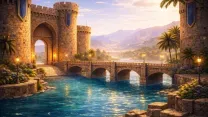
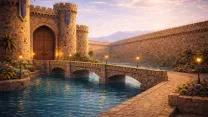
WIP - Gate ready

diff --git a/resources/js/support/alpine/data/quran-app-gate.js b/resources/js/support/alpine/data/quran-app-gate.js
@@ -57,27 +57,23 @@ document.addEventListener('alpine:init', () => {
                 return;
             }
 
-            let nextAngleDeg = targetAngleDeg;
-            const angleDelta = nextAngleDeg - this.orbitAngleDeg;
+            const wrappedDelta = ((targetAngleDeg - this.orbitAngleDeg + 540) % 360) - 180;
 
-            if (angleDelta > 180) {
-                nextAngleDeg -= 360;
-            } else if (angleDelta < -180) {
-                nextAngleDeg += 360;
-            }
-
-            this.orbitAngleDeg = nextAngleDeg;
+            this.orbitAngleDeg += wrappedDelta;
         },
         pinMode(mode) {
             this.pinnedMode = mode;
             this.isModePinned = true;
-            this.setOrbitAngle(
-                {
-                    tilawa: 0,
-                    hifth: 120,
-                    tadabbur: 240,
-                }[mode] ?? 0,
-            );
+
+            if (!this.isPointerInside) {
+                this.setOrbitAngle(
+                    {
+                        tilawa: 0,
+                        hifth: 120,
+                        tadabbur: 240,
+                    }[mode] ?? 0,
+                );
+            }
         },
         unpinMode(mode) {
             if (this.pinnedMode !== mode) {

diff --git a/resources/views/components/partials/quran-app/gate.blade.php b/resources/views/components/partials/quran-app/gate.blade.php
@@ -8,6 +8,7 @@
             --quran-gold-3: #d79f2f;
             --quran-gold-4: #8b6216;
             isolation: isolate;
+            background: #0b0805;
             user-select: none;
             -webkit-user-drag: none;
             -webkit-touch-callout: none;
@@ -31,11 +32,11 @@
         }
 
         .quran-app-sector--tadabbur {
-            clip-path: polygon(0 0, var(--gate-cx) var(--gate-cy), 50% 100%, 0 100%);
+            clip-path: polygon(0 0, var(--gate-cx) var(--gate-cy), calc(50% + 0.6px) 100%, 0 100%);
         }
 
         .quran-app-sector--hifth {
-            clip-path: polygon(100% 0, var(--gate-cx) var(--gate-cy), 50% 100%, 100% 100%);
+            clip-path: polygon(100% 0, var(--gate-cx) var(--gate-cy), calc(50% - 0.6px) 100%, 100% 100%);
         }
 
         .quran-app-sector__media {
@@ -83,7 +84,7 @@
         }
 
         img.quran-app-sector__image-img--tilawa {
-            object-position: 50% 50% !important;
+            object-position: 50% 62.5% !important;
         }
 
         img.quran-app-sector__image-img--hifth {
@@ -255,7 +256,7 @@
             inset: 0;
             border-radius: 999px;
             transform: rotate(0deg);
-            transition: transform 95ms ease-out, opacity 220ms ease;
+            transition: transform 300ms ease-out, opacity 220ms ease;
             pointer-events: none;
             z-index: 230;
         }
@@ -264,7 +265,7 @@
             position: absolute;
             left: 50%;
             top: 0;
-            width: 2.5rem;
+            width: 3.25rem;
             aspect-ratio: 1;
             border-radius: 999px;
             border: 1px solid rgba(253, 232, 171, 0.9);
@@ -368,6 +369,10 @@
                     0 0 0 3px color-mix(in srgb, var(--quran-gold-2) 16%, transparent),
                     0 0 9px color-mix(in srgb, var(--quran-gold-3) 26%, transparent);
             }
+
+            .quran-app-gate-orbit {
+                transition-duration: 440ms;
+            }
         }
     </style>
 @endassets
@@ -377,10 +382,10 @@
     x-cloak
     x-show="views['quran-app-gate'].isOpen"
     x-transition:enter="transition-all ease-out duration-750 delay-300"
-    x-transition:enter-start="opacity-0! translate-y-5 blur-[2px]"
-    x-transition:enter-end="opacity-100 translate-y-0 blur-0"
+    x-transition:enter-start="opacity-0! blur-[2px]"
+    x-transition:enter-end="opacity-100 blur-0"
     x-transition:leave="transition-all ease-in duration-350!"
-    x-transition:leave-start="opacity-100 translate-y-0 blur-0"
+    x-transition:leave-start="opacity-100 blur-0"
     x-transition:leave-end="opacity-0! blur-[2px]"
 >
     <section
@@ -397,7 +402,7 @@
         <button
             class="quran-app-sector quran-app-sector--tilawa"
             type="button"
-            aria-label="ترتيل القرآن"
+            aria-label="تلاوة القرآن"
             x-bind:class="{ 'is-active': isModeActive('tilawa') }"
             x-on:mouseenter="pinMode('tilawa')"
             x-on:mouseleave="unpinMode('tilawa')"
@@ -419,7 +424,7 @@
             </span>
 
             <span class="quran-app-sector__veil"></span>
-            <span class="quran-app-sector__chip quran-app-sector__chip--tilawa font-arabic-serif">ترتيل</span>
+            <span class="quran-app-sector__chip quran-app-sector__chip--tilawa font-arabic-serif">تلاوة</span>
         </button>
 
         <button
@@ -480,16 +485,6 @@
             <span class="quran-app-sector__chip quran-app-sector__chip--hifth font-arabic-serif">حفظ</span>
         </button>
 
-        <svg
-            class="quran-app-gate-geometry"
-            aria-hidden="true"
-            viewBox="0 0 100 100"
-            preserveAspectRatio="none"
-            fill="none"
-        >
-            <path d="M50 53 L50 100" />
-        </svg>
-
         <div
             class="quran-app-gate-anchor"
             aria-hidden="true"
@@ -497,8 +492,6 @@
         >
             <span
                 class="quran-app-gate-orbit"
-                x-cloak
-                x-show="isPointerInside || isModePinned"
                 x-bind:style="{ transform: `rotate(${orbitAngleDeg}deg)` }"
             >
                 <span class="quran-app-gate-puck"></span>

diff --git a/resources/views/components/partials/copyright-and-version.blade.php b/resources/views/components/partials/copyright-and-version.blade.php
@@ -6,7 +6,7 @@
     ]) }}"
     data-testid="copyright-version-shell"
     x-bind:class="{
-        'opacity-100!': views['main-menu'].isOpen || views['athkar-app-gate'].isOpen,
+        'opacity-100!': views['main-menu'].isOpen || views['athkar-app-gate'].isOpen || views['quran-app-gate'].isOpen,
     }"
     x-data="{
         isVisible: false,
@@ -157,9 +157,12 @@
     x-on:app-version-updated.window="setAppVersion($event.detail?.version)"
 >
     <div
-        class="relative w-fit max-w-[90vw] rounded-2xl border border-white/70 bg-gray-100/30 px-4 py-3 text-[clamp(0.6rem,2.65vw,0.8rem)] text-gray-600 opacity-0 ring-1 ring-gray-200/70 transition-opacity duration-500 ease-out sm:max-w-none sm:px-6 sm:py-4 sm:text-[1rem] dark:border-white/10 dark:bg-gray-900/20 dark:text-gray-300 dark:ring-white/10"
+        class="relative w-fit max-w-[90vw] rounded-2xl border border-white/70 bg-gray-100/30 px-4 py-3 text-[clamp(0.6rem,2.65vw,0.8rem)] text-gray-600 opacity-0 ring-1 ring-gray-200/70 transition-all duration-500 ease-out sm:max-w-none sm:px-6 sm:py-4 sm:text-[1rem] dark:border-white/10 dark:bg-gray-900/20 dark:text-gray-300 dark:ring-white/10"
         data-testid="copyright-version-panel"
-        x-bind:class="isVisible && 'opacity-100!'"
+        x-bind:class="{
+            'opacity-100!': isVisible,
+            'bg-gray-100/80! text-gray-700!': views['quran-app-gate'].isOpen,
+        }"
     >
         <p class="whitespace-normal text-center leading-tight">
             جميع الحقوق محفوظة •

diff --git a/tests/Feature/App/QuranReaderViewTest.php b/tests/Feature/App/QuranReaderViewTest.php
@@ -46,7 +46,6 @@ it('wires quran reader entry points from main menu to hash navigation and view m
         ->and($quranGateSource)->toContain('x-on:click="openMode(\'tilawa\')"')
         ->and($quranGateSource)->toContain('x-on:click="openMode(\'hifth\')"')
         ->and($quranGateSource)->toContain('x-on:click="openMode(\'tadabbur\')"')
-        ->and($quranGateSource)->toContain('<path d="M50 53 L50 100" />')
         ->and($quranGateSource)->not->toContain('M0 0 L50 53')
         ->and($quranGateSource)->not->toContain('M100 0 L50 53')
         ->and($quranGateSource)->not->toContain('quran-app-gate-needle');
